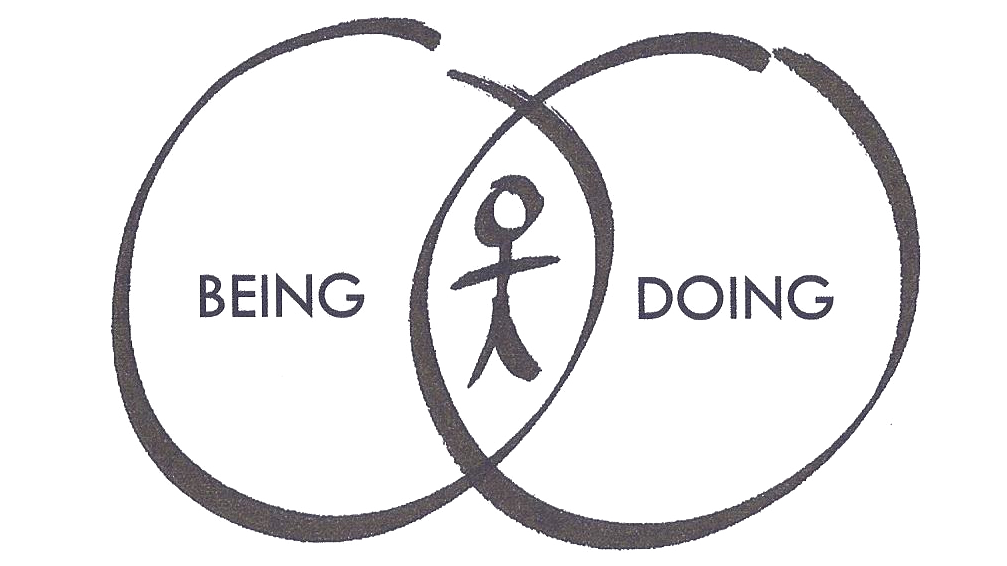
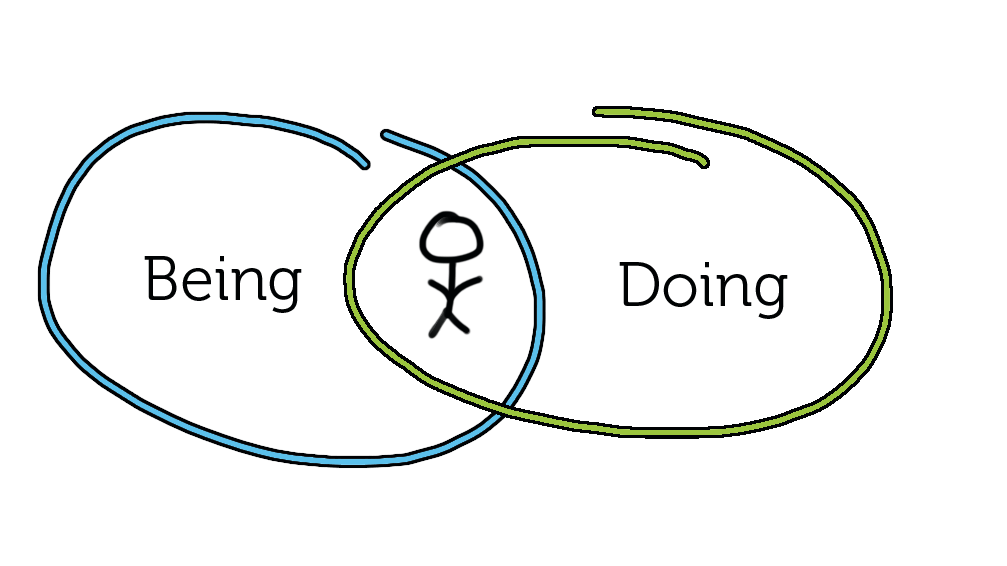
Adding summary images for interaction and introspection and removed slides about undivided attention in the conclusion

Changed region(s): [[0.0308, 0.03, 0.9235, 0.9912], [0.2155, 0.03, 0.4618, 0.1502]]

diff --git a/index.html b/index.html
@@ -625,34 +625,27 @@ Does pointing still works without a screen?
 <section><section id="in-summary" class="titleslide slide level1"><h1>In Summary</h1></section><section id="contributions" class="slide level2">
 <h1>Contributions</h1>
 <p><img src="./img/augmented-object-input-output.png" height="500px"></p>
-</section><section id="interaction-3" class="slide level2">
-<h1>Interaction</h1>
-<p><img src="./img/conclusion-cursar.jpg" height="400px"> <span style="display:inline-block; width: 100px;"></span> <img src="./img/conclusion-tports.jpg" height="400px"></p>
-</section><section id="introspection-5" class="slide level2">
-<h1>Introspection</h1>
-<p><img src="./img/teegi-inverse-model.jpg" height="400px"> <span style="display:inline-block; width: 100px;"></span> <img src="./img/conclusion-tobe.jpg" height="400px"></p>
+</section><section class="slide level2">
+
+<p><img src="./img/summary-interaction.png" height="600px"></p>
+</section><section class="slide level2">
+
+<p><img src="./img/summary-introspection.png" height="700px"></p>
 </section></section>
 <section><section id="section-33" class="titleslide slide level1" data-background="./img/scanning-the-horizon.jpg"><h1><!-- What's next? --></h1></section><section id="section-34" class="slide level2" data-background="./img/conclusion-real-world.jpg">
 <h1><!-- The Real World --></h1>
 <aside class="notes">
 <p>I think that we should not have to choose between being <em>here</em> and going to wonderland.</p>
 </aside>
-</section><section id="section-35" class="slide level2" data-background="./img/being-and-doing.png">
+</section><section id="section-35" class="slide level2">
 <h1><!-- Being / Doing --></h1>
+<p><img src="./img/being-and-doing.png"></p>
 </section><section class="slide level2">
 
 <h3 id="designing-for-calmness-and-wellbeing">Designing for Calmness and Wellbeing</h3>
 <aside class="notes">
 <ul>
 <li>How can we use technology to create calm experiences?</li>
-</ul>
-</aside>
-</section><section class="slide level2">
-
-<h3 id="undivided-attention">Undivided Attention</h3>
-<aside class="notes">
-<ul>
-<li>Trying to go towards technology that does not <em>require</em> our undivided attention</li>
 </ul>
 </aside>
 </section><section id="section-36" class="slide level2" data-background="./img/tandem.jpg">

diff --git a/phd-defense.md b/phd-defense.md
@@ -686,17 +686,13 @@ How to use these augmented objects to better know ourselves and others better?
 ## Contributions
 <img src="./img/augmented-object-input-output.png" height="500px">
 
+---
 
-## Interaction
-<img src="./img/conclusion-cursar.jpg" height="400px">
-<span style="display:inline-block; width: 100px;"></span>
-<img src="./img/conclusion-tports.jpg" height="400px">
+<img src="./img/summary-interaction.png" height="600px">
 
+---
 
-## Introspection
-<img src="./img/teegi-inverse-model.jpg" height="400px">
-<span style="display:inline-block; width: 100px;"></span>
-<img src="./img/conclusion-tobe.jpg" height="400px">
+<img src="./img/summary-introspection.png" height="700px">
 
 
 
@@ -711,20 +707,14 @@ I think that we should not have to choose between being *here* and going to wond
 </div>
 
 
-## <!-- Being / Doing --> {data-background="./img/being-and-doing.png"}
+## <!-- Being / Doing -->
+<img src="./img/being-and-doing.png">
 
 ---
 
 ### Designing for Calmness and Wellbeing
 <div class="notes">
 - How can we use technology to create calm experiences?
-</div>
-
----
-
-### Undivided Attention
-<div class="notes">
-- Trying to go towards technology that does not *require* our undivided attention
 </div>
 
 
